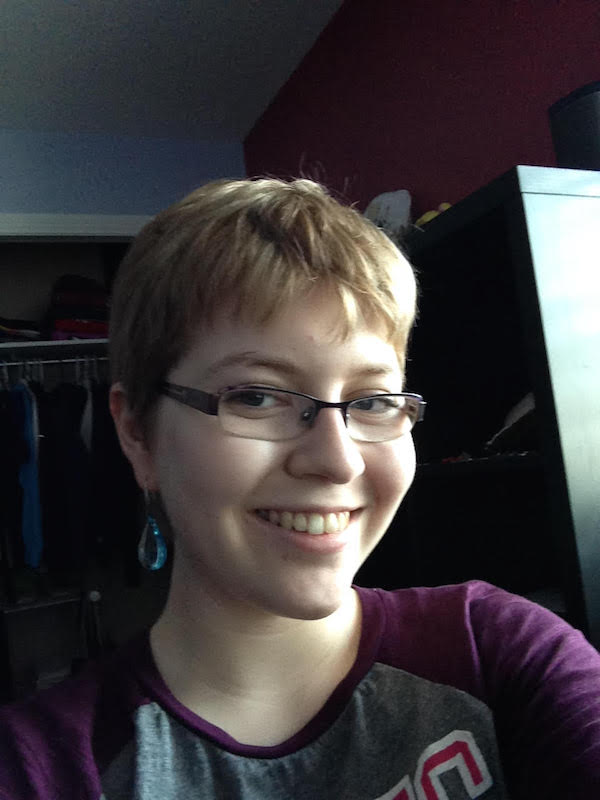
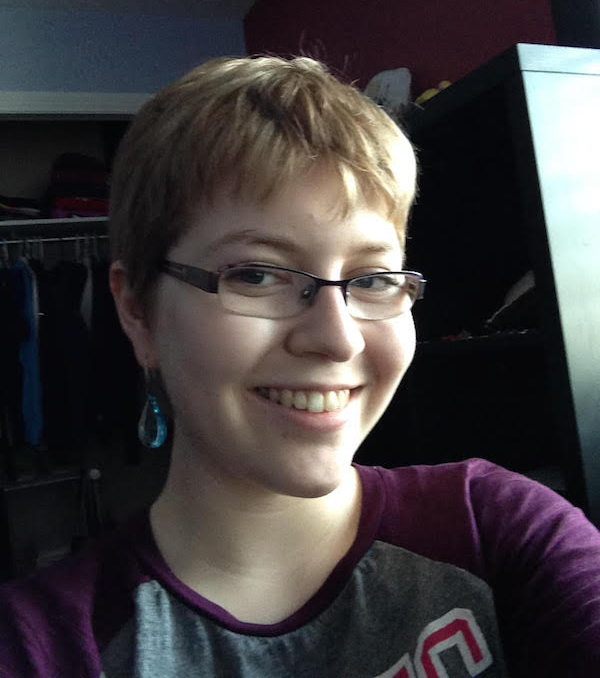
Photo modifications, remove meetings button and other touchups
- Update Maria Dalton's photo
- Crop a small portion out of the top of Darien Klein's photo so her face aligns more with the rest of the councillors
- Remove the fade animation for the orange menu buttons when the page loads(resolves #74)
- Remove the orange menu button called "meetings" since it went to the now-removed "minutes" page(resolves #79)
- Replace YAY with something more meaningful and professional on "About" rollover

diff --git a/index.html b/index.html
@@ -83,12 +83,8 @@ title: Home
 <div class="section-content top-body">
   <div class="container">
     <div class="row">
-      <div class="col-md-3 col-sm-3 col-xs-6">
-        <div class="content-box content-style4 medium animated"
-          data-animtype="fadeIn"
-          data-animrepeat="0"
-          data-animspeed="1s"
-          data-animdelay="0.2s">
+      <div class="col-md-4 col-sm-4 col-xs-6">
+        <div class="content-box content-style4 medium">
           <a href="/events" class="orange-menu-button">
             <h4 class="h4-body-title">
               <i class="fa fa-calendar fa-"></i>
@@ -97,12 +93,8 @@ title: Home
           </a>
         </div>
       </div>
-      <div class="col-md-3 col-sm-3 col-xs-6">
-        <div class="content-box content-style4 medium animated"
-          data-animtype="fadeIn"
-          data-animrepeat="0"
-          data-animspeed="1s"
-          data-animdelay="0.2s">
+      <div class="col-md-4 col-sm-4 col-xs-6">
+        <div class="content-box content-style4 medium">
           <a href="https://docs.google.com/forms/d/1XoQL40XxERODSEHSlAzFHHCfBtWo9sIW1uV6atmyKmE/viewform?edit_requested=true" class="orange-menu-button">
             <h4 class="h4-body-title">
               <i class="fa fa-group fa-"></i>
@@ -111,26 +103,8 @@ title: Home
           </a>
         </div>
       </div>
-      <div class="col-md-3 col-sm-3 col-xs-6">
-        <div class="content-box content-style4 medium animated"
-          data-animtype="fadeIn"
-          data-animrepeat="0"
-          data-animspeed="1s"
-          data-animdelay="0.2s">
-          <a href="/minutes" class="orange-menu-button">
-            <h4 class="h4-body-title">
-              <i class="fa fa-desktop fa-"></i>
-              Meetings
-            </h4>
-          </a>
-        </div>
-      </div>
-      <div class="col-md-3 col-sm-3 col-xs-6">
-        <div class="content-box content-style4 medium animated"
-           data-animtype="fadeIn"
-           data-animrepeat="0"
-           data-animspeed="1s"
-           data-animdelay="0.2s">
+      <div class="col-md-4 col-sm-4 col-xs-12">
+        <div class="content-box content-style4 medium">
            <a href="/documents" class="orange-menu-button">
             <h4 class="h4-body-title">
               <i class="fa fa-file-text-o fa-"></i>

diff --git a/_includes/header.html b/_includes/header.html
@@ -42,7 +42,7 @@
                                 <span class="label-nav">
                                     About
                                 </span>
-                                <span class="label-nav-sub" data-hover="YAY">
+                                <span class="label-nav-sub" data-hover="What we do">
                                     Learn More
                                 </span>
                             </a>

diff --git a/_posts/councillors/2015-06-01-HealthSci2.md b/_posts/councillors/2015-06-01-HealthSci2.md
@@ -2,7 +2,7 @@
 name: Maria Dalton
 categories: councillor
 dept: Health Sciences
-img: Maria Dalton.png
+img: Maria Dalton.jpg
 blurb: Hey guys! I’m a second year Health Sciences Student in Biomedical Sciences. I was born in beautiful BC , but raised on the east coast in Prince Edward Island. I enjoying hitting balls (I’m a Carleton ravens Varsity Golfer) and occasionally throwing them down a lane (I’m also a competitive 5 pin bowler). Aside from that I enjoy painting, politics, the outdoors and hope to pursue a career in Dental Surgery.
 
 ---
